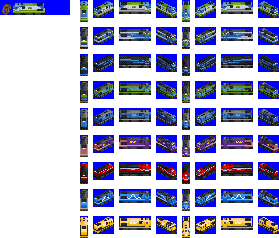
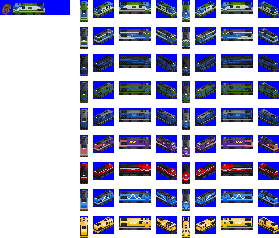
2023.06.20 1.02 업데이트

diff --git a/README.md b/README.md
@@ -249,7 +249,7 @@
                     <tr>
                         <td>2014</td>
                         <td>[단량] 7X00호대 디젤기관차 [DTS]</td>
-                        <td>1.00.4</td>
+                        <td>1.02</td>
                     </tr>
                     <tr>
                         <td>2015</td>
